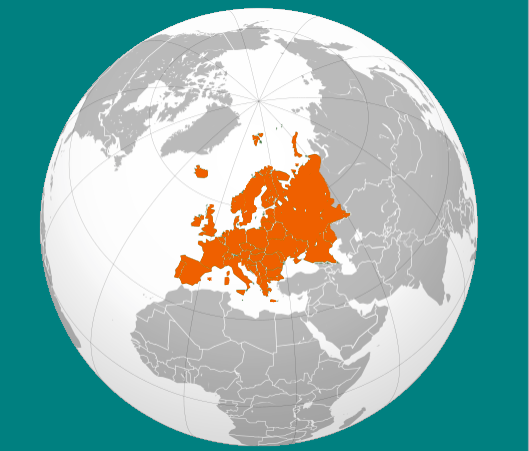
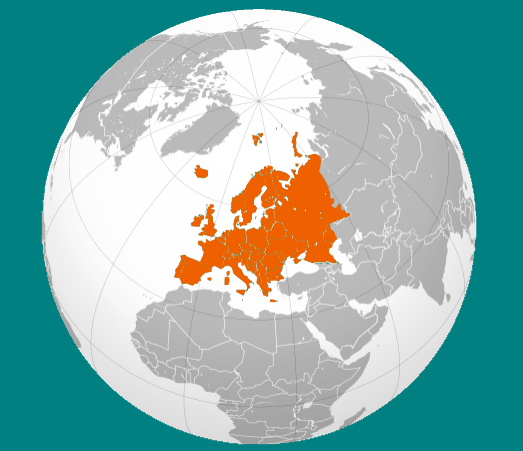
udpated europe pic

diff --git a/index.html b/index.html
@@ -45,7 +45,7 @@
     
     <div class="container main-container">
         <div class="row">
-            <img class="images" src="assets/Oceania.png">
+            <img class="images" src="assets/Europe.png">
             
     <div class="col-sm-9">
         

diff --git a/stylesheet.css b/stylesheet.css
@@ -88,7 +88,8 @@ body {
     margin-top: 40px;
     bottom: 0%;
     height: 50px;
-    width: 100%
+    width: 100%;
+    position: fixed;
 }
 
 #logo-bottom{
